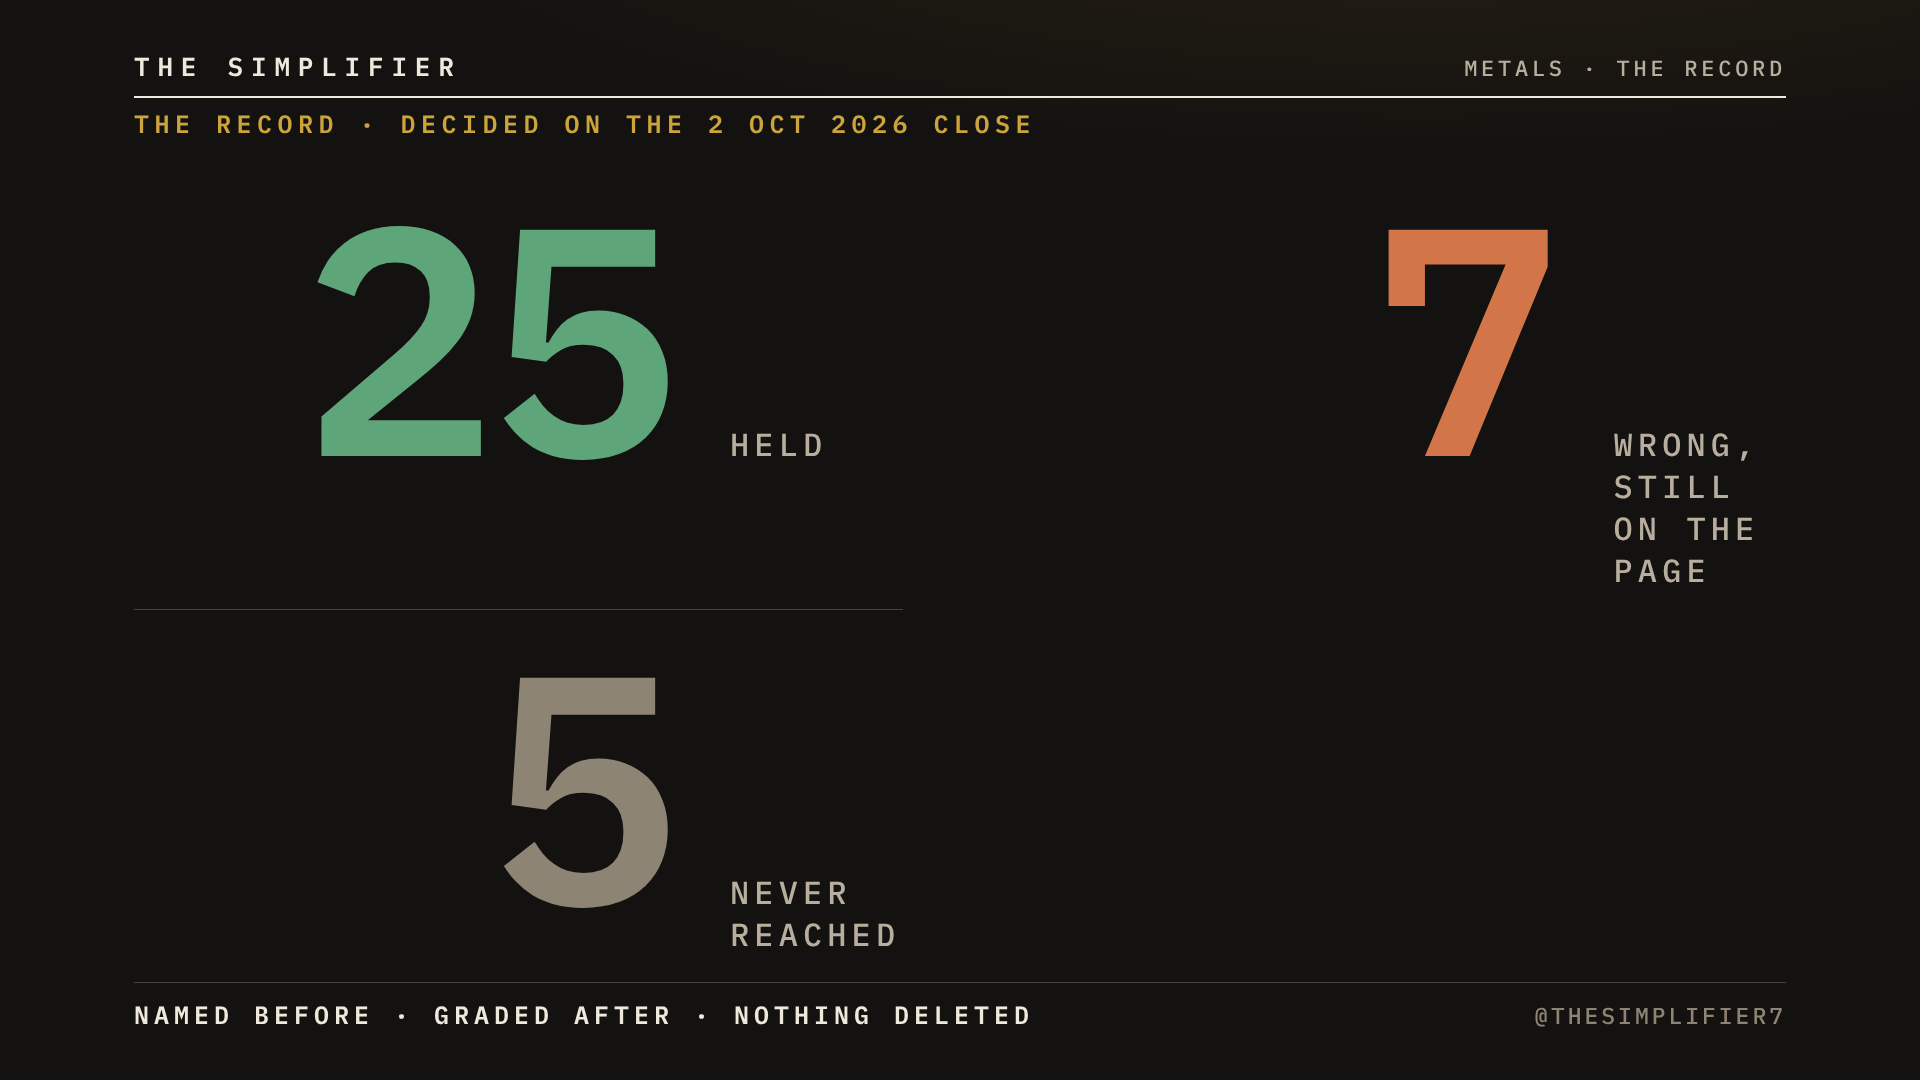
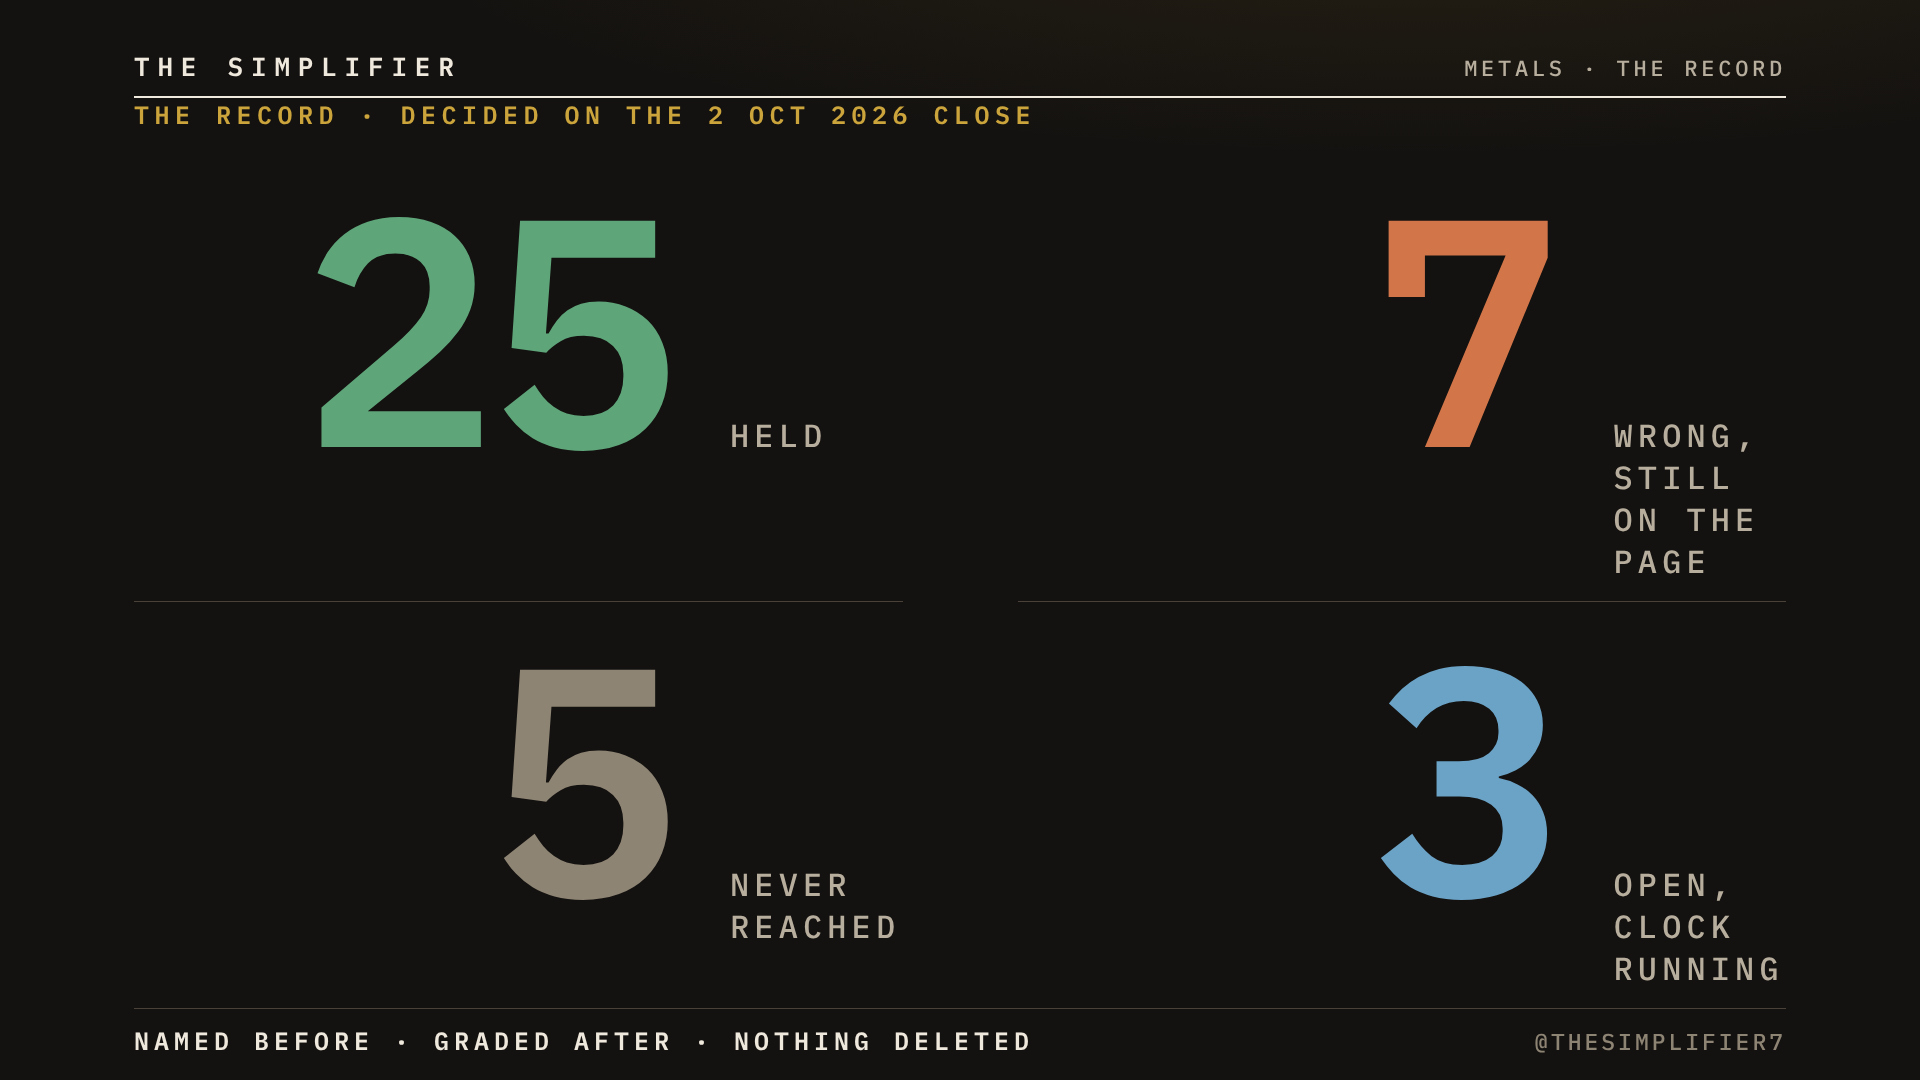
Add files via upload

diff --git a/index.html b/index.html
@@ -69,7 +69,9 @@
      <meta property="og:image" content="https://thesimplifier7.github.io/record/card_2026-09-20_graded.png"> -->
 <!-- WAS card_2026-09-28_open.png until 2 Oct 2026, note 44: the week of 28 September while its three rows were open.
      <meta property="og:image" content="https://thesimplifier7.github.io/record/card_2026-09-28_open.png"> -->
-<meta property="og:image" content="https://thesimplifier7.github.io/record/card_2026-09-28_graded.png">
+<!-- WAS card_2026-09-28_graded.png until 5 Oct 2026, the Monday map upload: the week of 28 September, as graded.
+     <meta property="og:image" content="https://thesimplifier7.github.io/record/card_2026-09-28_graded.png"> -->
+<meta property="og:image" content="https://thesimplifier7.github.io/record/card_2026-10-05_open.png">
 <meta property="og:image:width" content="1200">
 <meta property="og:image:height" content="630">
 <meta name="twitter:card" content="summary_large_image">
@@ -1659,7 +1661,7 @@
       <div class="lab">Graded wrong, still on this page</div>
     </div>
     <div class="stat">
-      <div class="num blue" id="t-open">0</div>
+      <div class="num blue" id="t-open">3</div>
       <div class="lab">Open, clock running</div>
     </div>
   </section>
@@ -2096,7 +2098,7 @@
    posted call before it goes live. This page is the whole brand in one place.
    ========================================================================= */
 
-const LAST_UPDATED  = "2026-10-02";   /* set by hand, with the commit. "2026-10-02" for the grade upload of 2 October, which carries note 44, the first rows graded under the call grammar. WAS "2026-09-28": "2026-09-28" for the Monday map upload of 28 September, the first rows named under the call grammar (note 34). WAS "2026-09-25": Kept at "2026-09-25" for the grade upload of the same night, which carries note 42 (the 25 September close). WAS "2026-09-24" until the upload of 25 September, which carries notes 38 to 40 (written 24 September) and note 41 (written early on 25 September); "2026-09-23" until the 24 September uploads, which carry notes 33 to 35 (17:34 CEST), note 36 (the same evening) and note 37 (the same night); "2026-09-20" until the 23 September upload, which carries note 30 (written 22 September, not uploaded that day) and note 31; "2026-09-13" until the 20 September upload */
+const LAST_UPDATED  = "2026-10-05";   /* set by hand, with the commit. "2026-10-05" for the Monday map upload of 5 October, rows named under the call grammar (note 34). WAS "2026-10-02": "2026-10-02" for the grade upload of 2 October, which carries note 44, the first rows graded under the call grammar. WAS "2026-09-28": "2026-09-28" for the Monday map upload of 28 September, the first rows named under the call grammar (note 34). WAS "2026-09-25": Kept at "2026-09-25" for the grade upload of the same night, which carries note 42 (the 25 September close). WAS "2026-09-24" until the upload of 25 September, which carries notes 38 to 40 (written 24 September) and note 41 (written early on 25 September); "2026-09-23" until the 24 September uploads, which carry notes 33 to 35 (17:34 CEST), note 36 (the same evening) and note 37 (the same night); "2026-09-20" until the 23 September upload, which carries note 30 (written 22 September, not uploaded that day) and note 31; "2026-09-13" until the 20 September upload */
 
 /* =========================================================================
    PROVENANCE  ·  which commit wrote each grade, added 4 Sep 2026
@@ -2123,11 +2125,14 @@ const PROVENANCE = {
      written, and the reader reads GitHub's timestamp rather than this desk's.
      When the row is graded, this entry is replaced by the normal shape with
      the graded date and the hash, and the old shape is kept beside it. */
+  "2026-10-05": { written:"2026-10-05", open:true },
   /* WAS, while the rows were open and before the close that graded them:
        "2026-09-28": { written:"2026-09-28", open:true },
      Graded on the 2 October close, written 2 October. Named by the day rather than by a hash because the hash does not exist until the
      push that writes this line; swap in the hash on the next push. */
-  "2026-09-28": { graded:"2026-10-02", written:"2026-10-02", dayLink:true },
+  /* WAS, until the hash of the 2 October push was known:
+       "2026-09-28": { graded:"2026-10-02", written:"2026-10-02", dayLink:true }, */
+  "2026-09-28": { graded:"2026-10-02", written:"2026-10-02", commit:"eaee555" },
   /* WAS, while the rows were open and before the close that graded them:
        "2026-08-30": { written:"2026-09-04", open:true },
      Graded on the 4 September close. The commit that carried the rows is
@@ -2778,6 +2783,18 @@ const STANDING = [
    ========================================================================= */
 
 const CALLS = [
+
+  /* WEEK OF 5 OCTOBER. Named Monday evening on the week's own opening box, frozen at
+     16:00 CEST, before the first 8h close after it (23:00 CEST Monday, note 43), under the call grammar (note 34).
+     Read off the founder's own 8h TVC charts at 22:05 and 22:06 CEST, from THE PLAN panel of The Fan on each chart, which prints THE METHOD's weekly model (the tint, on 40 weeks) to one decimal. It replaces a first read at 21:22 and 21:23 CEST, taken before anything was uploaded:
+       gold      box 4,124.48 to 4,170.41, last print 4,138.855 at 22:06 CEST; the odds: week closes above the box 39.0, below 45.0
+       silver    box 60.326 to 62.036, last print 61.0380 at 22:05 CEST; the odds: week closes above the box 40.4, below 42.9
+       platinum  box 1,699.00 to 1,740.40, last print 1,720.49 at 22:06 CEST; the odds: week closes above the box 41.4, below 40.7
+     The side, the line and the room are his read. The odds are THE METHOD's tint on a box edge, read off that panel;
+     oddsFrom names it "data window", the header's word for the tint on a box edge. Grade Friday at the 23:00 CEST close. */
+  { date:"2026-10-05", type:"Map", metal:"Gold", level:"4,170.41", book:"Turn", grammar:1, side:"copper", room:"4,124.48", odds:61, oddsFrom:"data window", lineFrom:"box high", box:["4,124.48","4,170.41"], readAt:"22:06 CEST", call:"Gold stays below 4,170.41, the high of the box it opened this week in, frozen Monday afternoon and read off the 8h chart at 22:06 CEST. Room 4,124.48, the box low. Odds at naming 61 in 100, off the data window. Named on the week's own box before any 8h close through it. Kill: a weekly close above 4,170.41.", grade:"pending" },
+  { date:"2026-10-05", type:"Map", metal:"Silver", level:"62.036", book:"Turn", grammar:1, side:"copper", room:"60.326", odds:60, oddsFrom:"data window", lineFrom:"box high", box:["60.326","62.036"], readAt:"22:05 CEST", call:"Silver stays below 62.036, the high of the box it opened this week in, frozen Monday afternoon and read off the 8h chart at 22:05 CEST. Room 60.326, the box low. Odds at naming 60 in 100, off the data window. Named on the week's own box before any 8h close through it. Kill: a weekly close above 62.036.", grade:"pending" },
+  { date:"2026-10-05", type:"Map", metal:"Platinum", level:"1,699.00", book:"Turn", grammar:1, side:"slate", room:"1,740.40", odds:59, oddsFrom:"data window", lineFrom:"box low", box:["1,699.00","1,740.40"], readAt:"22:06 CEST", call:"Platinum holds above 1,699.00, the low of the box it opened this week in, frozen Monday afternoon and read off the 8h chart at 22:06 CEST. Room 1,740.40, the box high. Odds at naming 59 in 100, off the data window. Named on the week's own box before any 8h close through it. Kill: a weekly close below 1,699.00.", grade:"pending" },
 
   /* WEEK OF 28 SEPTEMBER. Named Monday evening on the week's own opening box, frozen at
      16:00 CEST, before the first 8h close after it (23:00 CEST Monday, note 43), under the call grammar (note 34).

diff --git a/week_card.html b/week_card.html
@@ -21,10 +21,10 @@ body{background:#141210;background-image:radial-gradient(900px 380px at 78% -12%
 .count .url{margin-left:auto;letter-spacing:.08em;text-transform:none;color:#8E8474;font-size:13px}
 </style></head><body>
 <div class="mast"><b>THE SIMPLIFIER</b><span>Metals · the record</span></div>
-<div class="k">Decided on the 2 Oct close · the next calls come Monday</div>
-<div class="cols"><div class="c" style="border-top-color:#5FA57A"><div class="m">Gold</div><div class="lv" style="color:#5FA57A">4,280.50</div>
-    <div class="l2" style="color:#5FA57A">Held</div><div class="l3">close 2 Oct · 4,142.710</div><div class="l4" style="color:#5FA57A">+137.79 clear</div></div><div class="c" style="border-top-color:#5FA57A"><div class="m">Silver</div><div class="lv" style="color:#5FA57A">64.212</div>
-    <div class="l2" style="color:#5FA57A">Hit</div><div class="l3">close 2 Oct · 60.4470</div><div class="l4" style="color:#5FA57A">+3.765 clear</div></div><div class="c" style="border-top-color:#5FA57A"><div class="m">Platinum</div><div class="lv" style="color:#5FA57A">1,775.80</div>
-    <div class="l2" style="color:#5FA57A">Hit</div><div class="l3">close 2 Oct · 1,699.70</div><div class="l4" style="color:#5FA57A">+76.10 clear</div></div></div>
-<div class="count"><span><b style="color:#EFE8DC">32</b>resolved</span><span><b style="color:#5FA57A">25</b>held, 2 hit</span><span><b style="color:#D2764A">7</b>wrong, kept</span><span class="url">thesimplifier7.github.io/record</span></div>
+<div class="k">This week · called 5 Oct · decided on the 9 Oct close</div>
+<div class="cols"><div class="c" style="border-top-color:#6BA3C7"><div class="m">Gold</div><div class="lv" style="color:#6BA3C7">4,170.41</div>
+    <div class="l2" style="color:#B8AE9E">stays below</div><div class="l3">close 2 Oct · 4,142.710</div><div class="l4" style="color:#6BA3C7">odds it holds 61 in 100</div></div><div class="c" style="border-top-color:#6BA3C7"><div class="m">Silver</div><div class="lv" style="color:#6BA3C7">62.036</div>
+    <div class="l2" style="color:#B8AE9E">stays below</div><div class="l3">close 2 Oct · 60.4470</div><div class="l4" style="color:#6BA3C7">odds it holds 60 in 100</div></div><div class="c" style="border-top-color:#6BA3C7"><div class="m">Platinum</div><div class="lv" style="color:#6BA3C7">1,699.00</div>
+    <div class="l2" style="color:#B8AE9E">holds above</div><div class="l3">close 2 Oct · 1,699.70</div><div class="l4" style="color:#6BA3C7">odds it holds 59 in 100</div></div></div>
+<div class="count"><span><b style="color:#EFE8DC">32</b>resolved</span><span><b style="color:#5FA57A">25</b>held, 2 hit</span><span><b style="color:#D2764A">7</b>wrong, kept</span><span><b style="color:#6BA3C7">3</b>open</span><span class="url">thesimplifier7.github.io/record</span></div>
 </body></html>

diff --git a/misses.html b/misses.html
@@ -100,7 +100,7 @@ if(t==="light")document.documentElement.setAttribute("data-theme","light");})();
   </nav>
   <h1>The ones I got wrong.</h1>
   <p class="stand">You have followed a gold call that was wrong and watched it disappear. These did not. Every call on the record that the close proved wrong, in full: the level as named, the kill published with it before the week, the close that fired it, and everything written about it afterwards. They are here because a record that keeps only its wins is not a record.</p>
-  <p class="tally"><b>7</b> wrong · <b>25</b> held · <b>5</b> never reached · 37 rows on the record. The wrong ones are 22 percent of the 32 resolved, stated beside its base because a percentage on a base this size is a small sample and should be read as one.</p>
+  <p class="tally"><b>7</b> wrong · <b>25</b> held · <b>5</b> never reached · <b>3</b> open · 40 rows on the record. The wrong ones are 22 percent of the 32 resolved, stated beside its base because a percentage on a base this size is a small sample and should be read as one.</p>
 
   <section class="miss" id="miss-1">
     <div class="head">

diff --git a/embed.html b/embed.html
@@ -12,7 +12,7 @@
 <meta property="og:url" content="https://thesimplifier7.github.io/record/embed.html">
 <meta property="og:title" content="The Simplifier · Put the record on your page">
 <meta property="og:description" content="One script tag. The live tally and the last graded row from The Simplifier's record, on any page. Nothing typed, nothing cached, nothing tracked.">
-<meta property="og:image" content="https://thesimplifier7.github.io/record/link_embed.png?v=a6a6113cf1">
+<meta property="og:image" content="https://thesimplifier7.github.io/record/link_embed.png?v=6e9a879a9a">
 <meta property="og:image:width" content="1200"><meta property="og:image:height" content="630">
 <meta name="twitter:card" content="summary_large_image">
 <!-- =========================================================================

diff --git a/guest.html b/guest.html
@@ -13,7 +13,7 @@
 <meta property="og:url" content="https://thesimplifier7.github.io/record/guest.html">
 <meta property="og:title" content="The Simplifier · For producers and hosts">
 <meta property="og:description" content="Ten years on the Cazenove gold desk. Publishes a level every week, publishes what would prove it wrong, and grades it at Friday's close.">
-<meta property="og:image" content="https://thesimplifier7.github.io/record/link_guest.png?v=cdfac2d8a4">
+<meta property="og:image" content="https://thesimplifier7.github.io/record/link_guest.png?v=d2d5cf591b">
 <meta property="og:image:width" content="1200"><meta property="og:image:height" content="630">
 <meta name="twitter:card" content="summary_large_image">
 

diff --git a/advisers.html b/advisers.html
@@ -13,7 +13,7 @@
 <meta property="og:url" content="https://thesimplifier7.github.io/record/advisers.html">
 <meta property="og:title" content="The Simplifier · For advisers">
 <meta property="og:description" content="What a client is sent to when you mention this desk. Education, a method, a graded ledger. Nothing else.">
-<meta property="og:image" content="https://thesimplifier7.github.io/record/link_advisers.png?v=53688bb732">
+<meta property="og:image" content="https://thesimplifier7.github.io/record/link_advisers.png?v=32de5d70e1">
 <meta property="og:image:width" content="1200"><meta property="og:image:height" content="630">
 <meta name="twitter:card" content="summary_large_image">
 

diff --git a/year.html b/year.html
@@ -13,7 +13,7 @@
 <meta property="og:url" content="https://thesimplifier7.github.io/record/year.html">
 <meta property="og:title" content="The Simplifier · The Year">
 <meta property="og:description" content="Twelve weeks, then nine months. One person at a time, by introduction.">
-<meta property="og:image" content="https://thesimplifier7.github.io/record/link_year.png?v=cee72b4e19">
+<meta property="og:image" content="https://thesimplifier7.github.io/record/link_year.png?v=3fc79b6b3a">
 <meta property="og:image:width" content="1200"><meta property="og:image:height" content="630">
 <meta name="twitter:card" content="summary_large_image">
 

diff --git a/tally_card_vertical_dark.html b/tally_card_vertical_dark.html
@@ -47,7 +47,7 @@
       <div class="stat"><span class="num pass">25</span><span class="lab">held</span></div>
       <div class="stat"><span class="num miss">7</span><span class="lab">wrong, still on the page</span></div>
       <div class="stat"><span class="num nr">5</span><span class="lab">never reached</span></div>
-      
+      <div class="stat"><span class="num open">3</span><span class="lab">open, clock running</span></div>
     </div>
   </div>
   <div class="foot stack"><span class="law">Named before · Graded after · Nothing deleted</span><span class="handle">@TheSimplifier7</span></div>

diff --git a/tally_card_landscape_dark.html b/tally_card_landscape_dark.html
@@ -47,7 +47,7 @@
       <div class="stat"><span class="num pass">25</span><span class="lab">held</span></div>
       <div class="stat"><span class="num miss">7</span><span class="lab">wrong, still on the page</span></div>
       <div class="stat"><span class="num nr">5</span><span class="lab">never reached</span></div>
-      
+      <div class="stat"><span class="num open">3</span><span class="lab">open, clock running</span></div>
     </div>
   </div>
   <div class="foot"><span class="law">Named before · Graded after · Nothing deleted</span><span class="handle">@TheSimplifier7</span></div>
